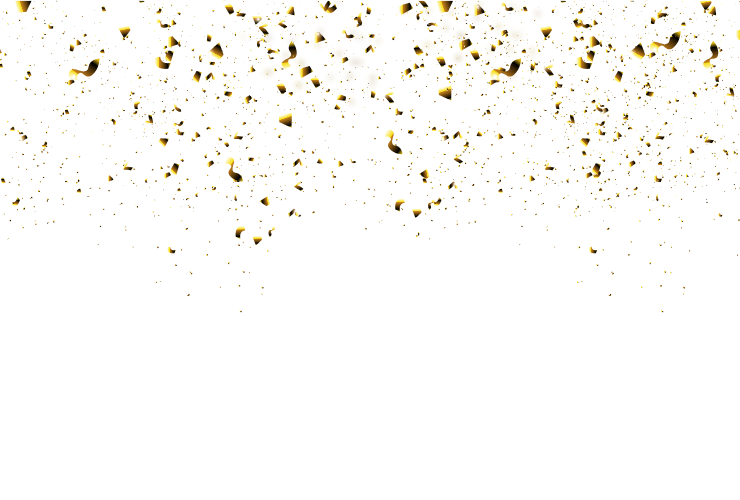
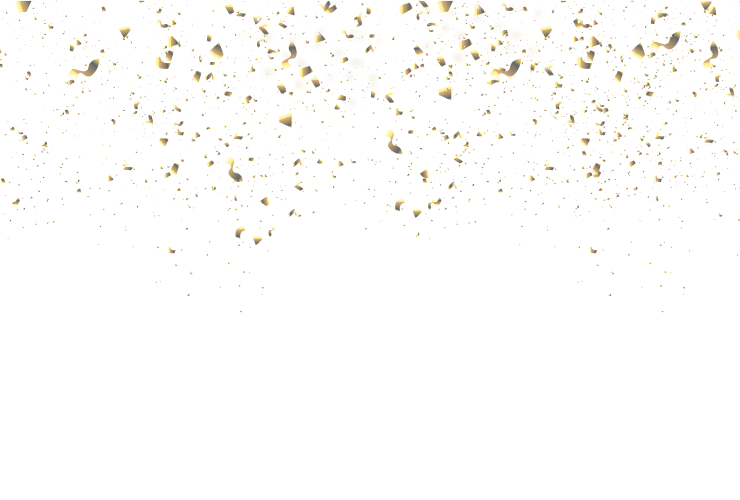
landing styling

diff --git a/styles/globals.css b/styles/globals.css
@@ -10,16 +10,18 @@ main {
     display: flex;
     flex-direction: column;
     justify-content: center;
-    align-items: center;    
-    background-size: cover !important;
-    background-repeat: no-repeat !important;
+    align-items: center;  
+    background-image: url('/conffeti_gold2.png');  
+    background-size: cover;
+    background-repeat: no-repeat;
 }
 
 .page-section.page-section__gallery {
-    background-size: cover !important;
-    background-repeat: no-repeat !important;
+    background-size: contain;
     display: flex;
     flex-direction: column;
+    background-image: url('/conffeti_gold2.png');
+    background-position-y: bottom;
 }
 
 .page-section__gallery__col:first-of-type {
@@ -188,13 +190,16 @@ footer span {
 
 .page-section__gallery__card {    
     margin: 24px;
-    opacity: 0.9;
+
+    background: linear-gradient(90deg, rgba(211,182,66,0.7) 0%, rgba(233,212,120,0.7) 50%, rgba(224,177,70,0.7) 100%);
 }
 
 .page-section__gallery__card h1 {
     font-size: 2rem;
     text-align: center;
     margin: 24px 0;
+    font-weight: 700;
+    color: white;
 }   
 
 .page-section__gallery__card-items {
@@ -214,13 +219,15 @@ footer span {
 
 .page-section__gallery__card-item svg {
     font-size: 3rem;
-    color: #d3b642;
+    color: white;
     
 }
 
 .page-section__gallery__card-item p {
     font-size: 1.2rem;
     text-align: center;
+    font-weight: 700;
+    color: white;
 }
 
 .page-section__gallery__card-bullets {
@@ -229,6 +236,8 @@ footer span {
 
 .page-section__gallery__card-important {
     text-align: center;
+    font-weight: 700;
+    color: white;
 }
 
 .page-section__gallery__card-btn {
@@ -248,13 +257,8 @@ footer span {
 
 .page-section__gallery__card-buy__text {
     text-align: center;
-}
-
-.temp-button-group {
-    position: fixed;
-    top: 15px;
-    right: 15px;
-    z-index: 999;
+    font-weight: 700;
+    color: white;
 }
 
 @media (max-width: 1024px) {
@@ -338,6 +342,8 @@ footer span {
 
     .page-section__gallery__card h1 {
         font-size: 1.7rem;
+        font-weight: 700;
+        color: white;
     }
 
     .page-section__gallery__card-item {

diff --git a/app/page.tsx b/app/page.tsx
@@ -28,7 +28,6 @@ import wineBullet from '../public/glass.png';
 export default function Home() {
 	const {isOpen, onOpen, onOpenChange} = useDisclosure();	
 	const [agreed, setAgreed] = React.useState(true); 
-	const [tempBackGround, setTempBackGround] = React.useState('url(/conffeti_gold1.png)') 
 
 	const ulStyle = {
 		listStyle: 'none',
@@ -40,12 +39,10 @@ export default function Home() {
 		paddingLeft: '32px',
 		backgroundSize: '20px',
 		marginBottom: '12px',
+		fontWeight: '700',
+		color: 'white'
 
 	};  
-
-	const bgStyle = {
-		background: tempBackGround,		
-	}
 
 	React.useEffect(() => { 
 		onOpen();		  
@@ -58,19 +55,6 @@ export default function Home() {
 			newTab.focus();
 		}		
 	};
-
-	function opBackGround (op: string) {
-		if(op === '1') {
-			setTempBackGround('url(/conffeti_gold1.png)')			
-		}
-		if(op === '2') {
-			setTempBackGround('url(/conffeti_gold2.png)')			
-		}
-		if(op === '3') {
-			setTempBackGround('url(/conffeti_gold3.png)')			
-		}
-
-	}
 
 	return (
 		<div className={`page-container ${montserrat.className}`}>			
@@ -99,13 +83,7 @@ export default function Home() {
 				)}
 				</ModalContent>
 			</Modal>
-			<ButtonGroup className="temp-button-group">
-				<Button color="warning" onClick={() => {opBackGround('1')}}>BG 1</Button>
-				<Button color="warning" onClick={() => {opBackGround('2')}}>BG 2</Button>
-				<Button color="warning" onClick={() => {opBackGround('3')}}>BG 3</Button>
-			</ButtonGroup>
-			
-			<div className="page-section page-section__intro" style={bgStyle} >
+			<div className="page-section page-section__intro" >
 				<Image src={`/logo_gold.png`} width={'100%'} height={'auto'} alt='logo' className="page-section__intro-img"/>
 				<div className="page-section__intro__info">
 					<h1>VOLVIMOS PARA ENCENDER LA NAVIDAD</h1>
@@ -119,7 +97,7 @@ export default function Home() {
 					</p> */}
 				</div>
 			</div>
-			<div className="page-section page-section__gallery" style={bgStyle} >
+			<div className="page-section page-section__gallery" >
 				<CarouselComponent />
 				<Card className="page-section__gallery__card">
 					<CardBody>

diff --git a/components/social.tsx b/components/social.tsx
@@ -1,7 +1,7 @@
 "use client"
 
 import React from 'react';
-import { BsInstagram, BsFacebook, BsTwitter, BsFillStarFill } from 'react-icons/bs';
+import { BsInstagram, BsFacebook, BsTwitter, BsTiktok } from 'react-icons/bs';
 import { Image } from '@nextui-org/react';
 import { motion } from "framer-motion";
 
@@ -17,17 +17,35 @@ export const SocialComponent = () => {
             className="box"
             whileHover={{ scale: 1.1 }}
             transition={{ type: "spring", stiffness: 400, damping: 10 }}
-        ><BsInstagram /></motion.div>
+        ><BsInstagram onClick={() => {
+            let url = "https://www.instagram.com/vinoalparque.col/?igshid=MzRlODBiNWFlZA=="
+            const newTab = window.open(url, "_blank");
+            if (newTab) {
+                newTab.focus();
+            }
+        }} /></motion.div>
         <motion.div
             className="box"
             whileHover={{ scale: 1.1 }}
             transition={{ type: "spring", stiffness: 400, damping: 10 }}
-        ><BsFacebook /></motion.div>
+        ><BsFacebook onClick={() => {
+            let url = "https://www.facebook.com/VinoAlParque?mibextid=LQQJ4d"
+            const newTab = window.open(url, "_blank");
+            if (newTab) {
+                newTab.focus();
+            }
+        }}/></motion.div>
         <motion.div
             className="box"
             whileHover={{ scale: 1.1 }}
             transition={{ type: "spring", stiffness: 400, damping: 10 }}
-        ><BsTwitter /></motion.div>
+        ><BsTiktok onClick={() => {
+            let url = "https://www.tiktok.com/@vinoalparque.col?_t=8fsr4gG92bG&_r=1"
+            const newTab = window.open(url, "_blank");
+            if (newTab) {
+                newTab.focus();
+            }
+        }} /></motion.div>
     </div>
   )
 }

diff --git a/components/carousel.tsx b/components/carousel.tsx
@@ -6,10 +6,10 @@ import 'react-responsive-carousel/lib/styles/carousel.min.css';
 
 export const CarouselComponent: React.FC = () => {
     const images = [
-        'https://i.imgur.com/iWtUIp6.jpg',
-        'https://i.imgur.com/1aC5LKS.jpg',
+        'https://i.imgur.com/nuaepSk.jpg',
+        'https://i.imgur.com/3O4cYcW.jpg',
         'https://i.imgur.com/hs374MO.jpg',
-        'https://i.imgur.com/iYwkH4y.jpg',
+        'https://i.imgur.com/wkrf4YT.jpg',
       ];
   return (
     <Carousel showIndicators={false} autoPlay infiniteLoop showStatus={false} showThumbs={false} swipeable={false}>
